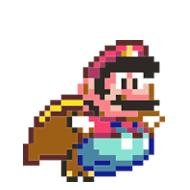
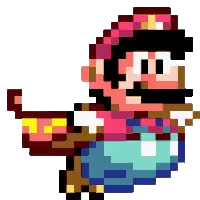
add new images

diff --git a/game/script.js b/game/script.js
@@ -11,8 +11,9 @@ pipe.style.visibility = "hidden"
 let loop = true
 
 function startGame() {
-    player.style.height = "110px"
     player.src = "./game/imgs/mario2.gif"
+    player.style.height = "120px"
+
     gameMusicAudio.play()
     pipe.style.visibility = "visible"
     pipe.style.animation = "pipeMove 1.3s linear infinite"
@@ -40,6 +41,7 @@ function startGame() {
 function jump() {
     player.src = "./game/imgs/mario_flying.png"
     player.style.animation = "jump 600ms linear"
+    player.style.height = "90px"
     playerJumpAudio.play()
 
     setTimeout(() => {

diff --git a/index.html b/index.html
@@ -9,8 +9,8 @@
     <script src="../game/script.js" defer></script>
 </head>
 <body class="container">
-    <button class="game-btn-play">Play</button>
     <div class="game-container">
+        <button class="game-btn-play">Play</button>
         <audio src="./game//sounds/game_sound.mp3" class="game-sound game-sound--music"></audio>
         <audio src="./game/sounds/player-jump.mp3" class="game-sound game-sound--jump"></audio>
         <audio src="./game/sounds/game_over_sound.mp3" class="game-sound game-sound--gameover"></audio>

diff --git a/game/style.css b/game/style.css
@@ -22,6 +22,20 @@
     position: relative;
     overflow: hidden;
 }
+.game-btn-play{
+    position: absolute;
+    z-index: 1;
+    left: 46%;
+    margin-top: 2px;
+    padding: 5px;
+    border-radius:5px;
+    border: 0;
+    color: #fff;
+    background-color: rgb(0, 89, 255);
+}
+.game-btn-play:hover{
+    background: rgb(47, 0, 255);
+}
 
 .game-pipe {
     height: 60px;
@@ -91,7 +105,6 @@
     60% {
         bottom: 100px;
     }
-
     100% {
         bottom: 0;
     }
